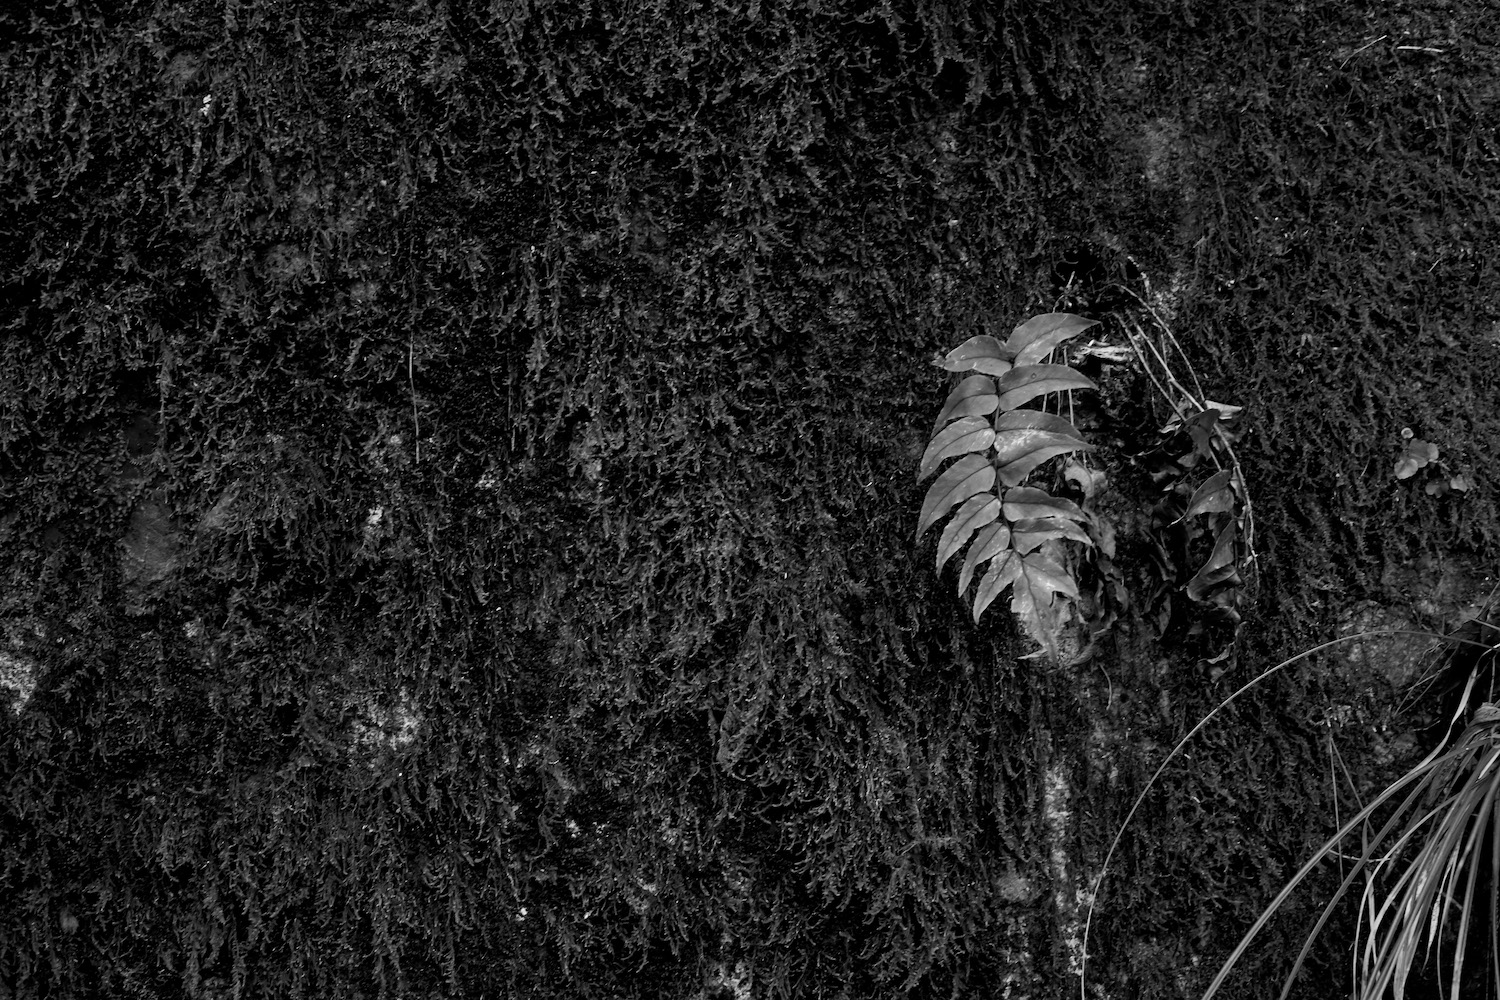
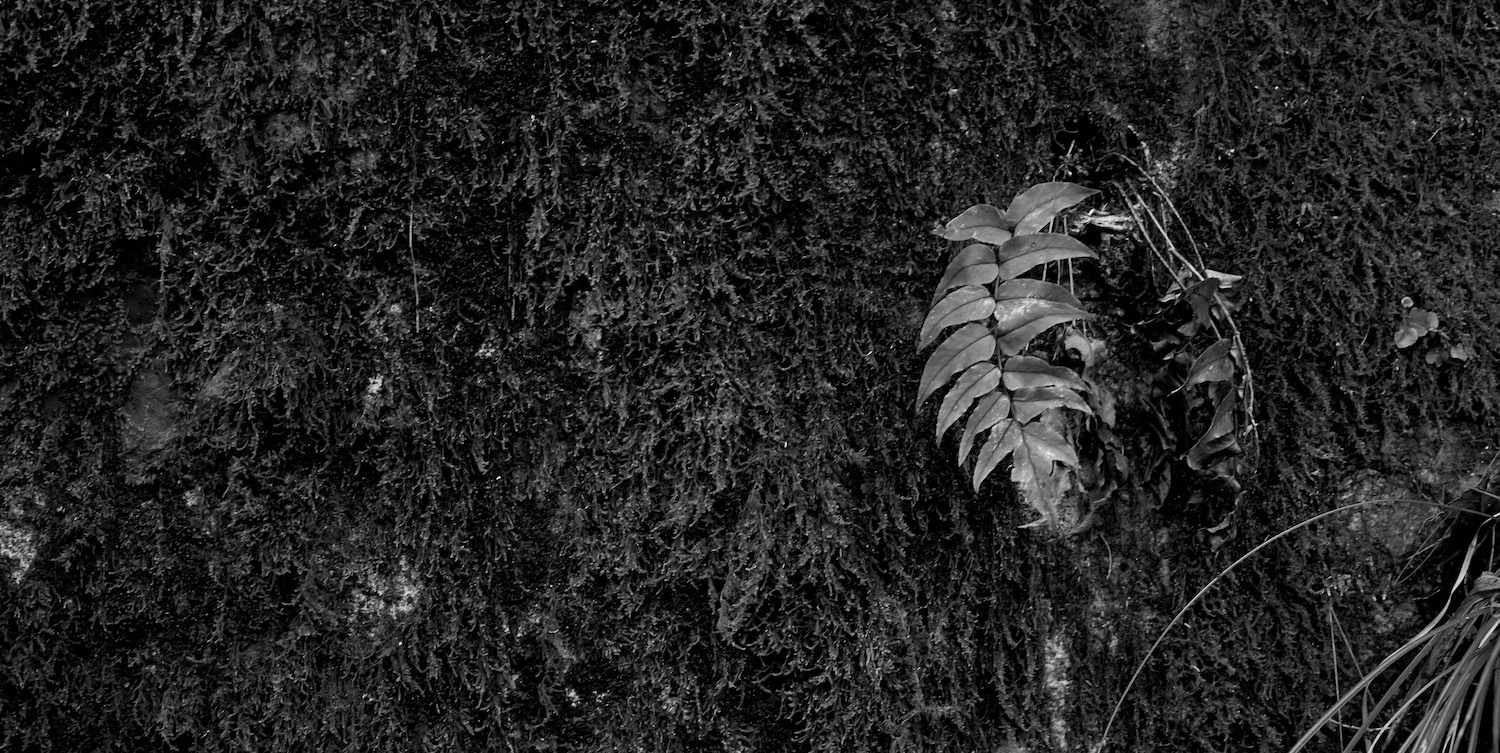
update eyecatch

diff --git a/public/css/common.css b/public/css/common.css
@@ -1,2 +1,2 @@
-html,body,div,span,applet,object,iframe,h1,h2,h3,h4,h5,h6,p,blockquote,pre,a,abbr,acronym,address,big,cite,code,del,dfn,em,img,ins,kbd,q,s,samp,small,strike,strong,sub,sup,tt,var,b,u,i,center,dl,dt,dd,ol,ul,li,fieldset,form,label,legend,table,caption,tbody,tfoot,thead,tr,th,td,article,aside,canvas,details,embed,figure,figcaption,footer,header,hgroup,menu,nav,output,ruby,section,summary,time,mark,audio,video{margin:0;padding:0;border:0;font:inherit;font-size:100%;vertical-align:baseline}html{line-height:1}ol,ul{list-style:none}table{border-collapse:collapse;border-spacing:0}caption,th,td{text-align:left;font-weight:normal;vertical-align:middle}q,blockquote{quotes:none}q:before,q:after,blockquote:before,blockquote:after{content:"";content:none}a img{border:none}article,aside,details,figcaption,figure,footer,header,hgroup,main,menu,nav,section,summary{display:block}*{box-sizing:border-box}html{font-size:62.5%;min-height:100%}body{font-size:16px;font-family:"Helvetica neue",Arial,Roboto,"Droid Sans","ヒラギノ角ゴ ProN W3","Hiragino Kaku Gothic ProN","メイリオ",Meiryo,sans-serif;line-height:1em;background-color:#fff;color:rgba(0,0,0,0.87);display:flex;min-height:100vh;flex-direction:column}main{flex:1}.container{padding:0 20px;margin-left:auto;margin-right:auto;max-width:980px;width:100%}b{font-weight:bold}a{color:rgba(0,0,0,0.54);text-decoration:none}a:hover{color:rgba(0,0,0,0.38)}h1{margin:10px 0px;font-size:38px;line-height:44px;font-weight:700}h2{margin:10px 0px;font-size:32px;line-height:36px;font-weight:700}h3{margin:10px 0px 1px;font-size:21px;line-height:30px;font-weight:400}h4{margin:10px 0px;font-size:18px;line-height:24px;font-weight:700}h5{margin:10px 0px;font-size:14px;line-height:20px;font-weight:700}h6{margin:10px 0px;font-size:12px;line-height:18px;font-weight:700}.row{margin-right:-15px;margin-left:-15px;overflow:hidden;*zoom:1}.grid{position:relative;min-height:1px;padding-right:15px;padding-left:15px}.grid-1{float:left;width:8.33333%}.grid-2{float:left;width:16.66667%}.grid-3{float:left;width:25%}.grid-4{float:left;width:33.33333%}.grid-5{float:left;width:41.66667%}.grid-6{float:left;width:50%}.grid-7{float:left;width:58.33333%}.grid-8{float:left;width:66.66667%}.grid-9{float:left;width:75%}.grid-10{float:left;width:83.33333%}.grid-11{float:left;width:91.66667%}.grid-12{float:left;width:100%}header{position:relative;padding:0 0 22% 0}@media screen and (max-width: 900px){header{padding:0 0 35% 0}}@media screen and (max-width: 600px){.header-content .profileicon{border:2px solid #eee;width:80px;height:80px}header .header-content{margin-left:-140px;margin-top:-20px}.header-content .profiletext{padding-top:12px;padding-left:15px}.header-content .profiletext .name{font-size:14px}.header-content .profiletext .role{font-size:25px}.header-content .profiletext .lang{font-size:12px}}nav{background-color:#222222}nav .container{display:flex;display:-webkit-flex;justify-content:space-between}.nav-brand{display:flex;display:-webkit-flex;justify-content:flex-start;align-items:center}.nav-brand .name{font-family:"Raleway", "Helvetica", "ヒラギノ角ゴ ProN W3", "Hiragino Kaku Gothic ProN", sans-serif;color:#ffffff;font-size:24px;font-weight:bold;padding-left:15px}.nav{display:flex;display:-webkit-flex;justify-content:flex-end;align-items:center}.nav a,.nav button{font-family:"Raleway", "Helvetica", "ヒラギノ角ゴ ProN W3", "Hiragino Kaku Gothic ProN", sans-serif;font-size:16px;background-color:transparent;color:#ffffff;border-style:none;padding:15px;display:block;border-bottom:5px solid transparent}.nav a:hover,.nav button:hover{border-bottom:5px solid #ffffff}@media screen and (max-width: 600px){.nav{justify-content:space-between}nav>.container{flex-direction:column}.nav-brand{display:none}}#eyecatch{display:block;background:no-repeat 50% 0;background-size:cover;-webkit-background-size:cover;background-image:url("/img/eyecatches/autumn_leaves.jpg")}.header-content{position:absolute;top:50%;left:50%;margin-left:-200px;margin-top:-35px;display:flex;display:-webkit-flex;flex-direction:row;-webkit-flex-direction:row}.profileicon{border:4px solid #eee;width:110px;height:110px;-moz-border-radius:50%;-webkit-border-radius:50%;border-radius:50%;background-image:url(/img/profile.png);background-attachment:center;background-position:center;background-repeat:no-repeat;background-size:cover}.profiletext{color:#fff;font-family:"Helvetica", sans-serif;font-weight:bold;display:flex;display:-webkit-flex;flex-direction:column;-webkit-flex-direction:column;justify-content:space-between;-webkit-justify-content:space-between;padding-top:20px;padding-left:20px}.profiletext .name{font-size:20px}.profiletext .role{font-size:32px}.profiletext .lang{font-size:16px}.contents h1,.contents h2,.contents h3{font-family:"Raleway", "Helvetica", "ヒラギノ角ゴ ProN W3", "Hiragino Kaku Gothic ProN", sans-serif}.contents h1{margin:50px 0 30px 0}.contents h2{margin:50px 0 30px 0}.contents h3{margin:25px 0 15px 0}.contents ul{padding-left:30px;margin-bottom:10px}.contents li{list-style-type:disc;padding:7px 0;line-height:150%}.contents p{line-height:200%;margin-bottom:10px}footer{margin:30px auto;padding:30px 0;border-top:1px solid rgba(0,0,0,0.1);-moz-box-shadow:#fff 0 1px 0 inset;-webkit-box-shadow:#fff 0 1px 0 inset;box-shadow:#fff 0 1px 0 inset}footer p{text-align:center;font-size:15px;font-weight:bold}footer .copyright{color:rgba(0,0,0,0.38);font-size:12px}.social-icons{font-size:22px;padding:20px 0 30px 0;display:flex;display:-webkit-flex;flex-direction:row;-webkit-flex-direction:row;justify-content:center;-webkit-justify-content:center;align-items:baseline;-webkit-align-items:baseline}.social-icons li:nth-child(5){color:#d14233;font-size:28px;padding:0 10px;animation:pulsation 3.0s infinite ease-in-out;-webkit-animation:pulsation 3.0s infinite ease-in-out}.social-icons a{padding:10px}@keyframes pulsation{80%{transform:scale(1);-webkit-transform:scale(1)}85%{transform:scale(1.3);-webkit-transform:scale(1.3)}90%{transform:scale(1);-webkit-transform:scale(1)}95%{transform:scale(1.3);-webkit-transform:scale(1.3)}100%{transform:scale(1);-webkit-transform:scale(1)}}.work-card-list{display:flex;display:-webkit-flex;flex-wrap:wrap}.work-card-list card{width:calc(100% * (1/3) - 10px - 1px);margin:5px}@media screen and (min-width: 480px) and (max-width: 800px){.work-card-list card{width:calc(100% * (1/2) - 10px - 1px);margin:5px}}@media screen and (max-width: 480px){.work-card-list{flex-direction:column}.work-card-list card{width:100%}}.heading-primary{color:#af430a;padding:30px 0;font-family:'Prata', serif}.loading-wrap{width:60px;height:60px;position:absolute;top:50%;left:50%;margin:100px auto;background:#efc380;animation:rotation ease-in-out 2s infinite;border-radius:30px}.triangle1,.triangle2,.triangle3{border-width:0 20px 30px 20px;border-style:solid;border-color:transparent;border-bottom-color:#d62c1a;height:0;width:0;position:absolute;left:10px;top:-10px;animation:fadecolor 2s 1s infinite}.triangle2,.triangle3{content:'';top:20px;left:30px;animation-delay:1.1s}.triangle3{left:-10px;animation-delay:1.2s}@keyframes rotation{0%{transform:rotate(0deg)}20%{transform:rotate(360deg)}100%{transform:rotate(360deg)}}@keyframes fadecolor{0%{border-bottom-color:#ea6153}100%{border-bottom-color:#d62c1a}}
+html,body,div,span,applet,object,iframe,h1,h2,h3,h4,h5,h6,p,blockquote,pre,a,abbr,acronym,address,big,cite,code,del,dfn,em,img,ins,kbd,q,s,samp,small,strike,strong,sub,sup,tt,var,b,u,i,center,dl,dt,dd,ol,ul,li,fieldset,form,label,legend,table,caption,tbody,tfoot,thead,tr,th,td,article,aside,canvas,details,embed,figure,figcaption,footer,header,hgroup,menu,nav,output,ruby,section,summary,time,mark,audio,video{margin:0;padding:0;border:0;font:inherit;font-size:100%;vertical-align:baseline}html{line-height:1}ol,ul{list-style:none}table{border-collapse:collapse;border-spacing:0}caption,th,td{text-align:left;font-weight:normal;vertical-align:middle}q,blockquote{quotes:none}q:before,q:after,blockquote:before,blockquote:after{content:"";content:none}a img{border:none}article,aside,details,figcaption,figure,footer,header,hgroup,main,menu,nav,section,summary{display:block}*{box-sizing:border-box}html{font-size:62.5%;min-height:100%}body{font-size:16px;font-family:"Helvetica neue",Arial,Roboto,"Droid Sans","ヒラギノ角ゴ ProN W3","Hiragino Kaku Gothic ProN","メイリオ",Meiryo,sans-serif;line-height:1em;background-color:#fff;color:rgba(0,0,0,0.87);display:flex;min-height:100vh;flex-direction:column}main{flex:1}.container{padding:0 20px;margin-left:auto;margin-right:auto;max-width:980px;width:100%}b{font-weight:bold}a{color:rgba(0,0,0,0.54);text-decoration:none}a:hover{color:rgba(0,0,0,0.38)}h1{margin:10px 0px;font-size:38px;line-height:44px;font-weight:700}h2{margin:10px 0px;font-size:32px;line-height:36px;font-weight:700}h3{margin:10px 0px 1px;font-size:21px;line-height:30px;font-weight:400}h4{margin:10px 0px;font-size:18px;line-height:24px;font-weight:700}h5{margin:10px 0px;font-size:14px;line-height:20px;font-weight:700}h6{margin:10px 0px;font-size:12px;line-height:18px;font-weight:700}.row{margin-right:-15px;margin-left:-15px;overflow:hidden;*zoom:1}.grid{position:relative;min-height:1px;padding-right:15px;padding-left:15px}.grid-1{float:left;width:8.33333%}.grid-2{float:left;width:16.66667%}.grid-3{float:left;width:25%}.grid-4{float:left;width:33.33333%}.grid-5{float:left;width:41.66667%}.grid-6{float:left;width:50%}.grid-7{float:left;width:58.33333%}.grid-8{float:left;width:66.66667%}.grid-9{float:left;width:75%}.grid-10{float:left;width:83.33333%}.grid-11{float:left;width:91.66667%}.grid-12{float:left;width:100%}header{position:relative;padding:0 0 22% 0}@media screen and (max-width: 900px){header{padding:0 0 35% 0}}@media screen and (max-width: 600px){.header-content .profileicon{border:2px solid #eee;width:80px;height:80px}header .header-content{margin-left:-140px;margin-top:-20px}.header-content .profiletext{padding-top:12px;padding-left:15px}.header-content .profiletext .name{font-size:14px}.header-content .profiletext .role{font-size:25px}.header-content .profiletext .lang{font-size:12px}}nav{background-color:#222222}nav .container{display:flex;display:-webkit-flex;justify-content:space-between}.nav-brand{display:flex;display:-webkit-flex;justify-content:flex-start;align-items:center}.nav-brand .name{font-family:"Raleway", "Helvetica", "ヒラギノ角ゴ ProN W3", "Hiragino Kaku Gothic ProN", sans-serif;color:#ffffff;font-size:24px;font-weight:bold;padding-left:15px}.nav{display:flex;display:-webkit-flex;justify-content:flex-end;align-items:center}.nav a,.nav button{font-family:"Raleway", "Helvetica", "ヒラギノ角ゴ ProN W3", "Hiragino Kaku Gothic ProN", sans-serif;font-size:16px;background-color:transparent;color:#ffffff;border-style:none;padding:15px;display:block;border-bottom:5px solid transparent}.nav a:hover,.nav button:hover{border-bottom:5px solid #ffffff}@media screen and (max-width: 600px){.nav{justify-content:space-between}nav>.container{flex-direction:column}.nav-brand{display:none}}#eyecatch{display:block;background:no-repeat 50% 0;background-size:cover;-webkit-background-size:cover;background-image:url("/img/eyecatches/moss_on_the_wall.jpg")}.header-content{position:absolute;top:50%;left:50%;margin-left:-200px;margin-top:-35px;display:flex;display:-webkit-flex;flex-direction:row;-webkit-flex-direction:row}.profileicon{border:4px solid #eee;width:110px;height:110px;-moz-border-radius:50%;-webkit-border-radius:50%;border-radius:50%;background-image:url(/img/profile.png);background-attachment:center;background-position:center;background-repeat:no-repeat;background-size:cover}.profiletext{color:#fff;font-family:"Helvetica", sans-serif;font-weight:bold;display:flex;display:-webkit-flex;flex-direction:column;-webkit-flex-direction:column;justify-content:space-between;-webkit-justify-content:space-between;padding-top:20px;padding-left:20px}.profiletext .name{font-size:20px}.profiletext .role{font-size:32px}.profiletext .lang{font-size:16px}.contents h1,.contents h2,.contents h3{font-family:"Raleway", "Helvetica", "ヒラギノ角ゴ ProN W3", "Hiragino Kaku Gothic ProN", sans-serif}.contents h1{margin:50px 0 30px 0}.contents h2{margin:50px 0 30px 0}.contents h3{margin:25px 0 15px 0}.contents ul{padding-left:30px;margin-bottom:10px}.contents li{list-style-type:disc;padding:7px 0;line-height:150%}.contents p{line-height:200%;margin-bottom:10px}footer{margin:30px auto;padding:30px 0;border-top:1px solid rgba(0,0,0,0.1);-moz-box-shadow:#fff 0 1px 0 inset;-webkit-box-shadow:#fff 0 1px 0 inset;box-shadow:#fff 0 1px 0 inset}footer p{text-align:center;font-size:15px;font-weight:bold}footer .copyright{color:rgba(0,0,0,0.38);font-size:12px}.social-icons{font-size:22px;padding:20px 0 30px 0;display:flex;display:-webkit-flex;flex-direction:row;-webkit-flex-direction:row;justify-content:center;-webkit-justify-content:center;align-items:baseline;-webkit-align-items:baseline}.social-icons li:nth-child(5){color:#d14233;font-size:28px;padding:0 10px;animation:pulsation 3.0s infinite ease-in-out;-webkit-animation:pulsation 3.0s infinite ease-in-out}.social-icons a{padding:10px}@keyframes pulsation{80%{transform:scale(1);-webkit-transform:scale(1)}85%{transform:scale(1.3);-webkit-transform:scale(1.3)}90%{transform:scale(1);-webkit-transform:scale(1)}95%{transform:scale(1.3);-webkit-transform:scale(1.3)}100%{transform:scale(1);-webkit-transform:scale(1)}}.work-card-list{display:flex;display:-webkit-flex;flex-wrap:wrap}.work-card-list card{width:calc(100% * (1/3) - 10px - 1px);margin:5px}@media screen and (min-width: 480px) and (max-width: 800px){.work-card-list card{width:calc(100% * (1/2) - 10px - 1px);margin:5px}}@media screen and (max-width: 480px){.work-card-list{flex-direction:column}.work-card-list card{width:100%}}.heading-primary{color:#af430a;padding:30px 0;font-family:'Prata', serif}.loading-wrap{width:60px;height:60px;position:absolute;top:50%;left:50%;margin:100px auto;background:#efc380;animation:rotation ease-in-out 2s infinite;border-radius:30px}.triangle1,.triangle2,.triangle3{border-width:0 20px 30px 20px;border-style:solid;border-color:transparent;border-bottom-color:#d62c1a;height:0;width:0;position:absolute;left:10px;top:-10px;animation:fadecolor 2s 1s infinite}.triangle2,.triangle3{content:'';top:20px;left:30px;animation-delay:1.1s}.triangle3{left:-10px;animation-delay:1.2s}@keyframes rotation{0%{transform:rotate(0deg)}20%{transform:rotate(360deg)}100%{transform:rotate(360deg)}}@keyframes fadecolor{0%{border-bottom-color:#ea6153}100%{border-bottom-color:#d62c1a}}
 /*# sourceMappingURL=common.css.map */

diff --git a/src/scss/layout/_header.scss b/src/scss/layout/_header.scss
@@ -102,7 +102,7 @@ nav {
   background: no-repeat 50% 0;
   background-size: cover;
   -webkit-background-size: cover;
-  background-image: url("/img/eyecatches/autumn_leaves.jpg");
+  background-image: url("/img/eyecatches/moss_on_the_wall.jpg");
 }
 
 .header-content {
